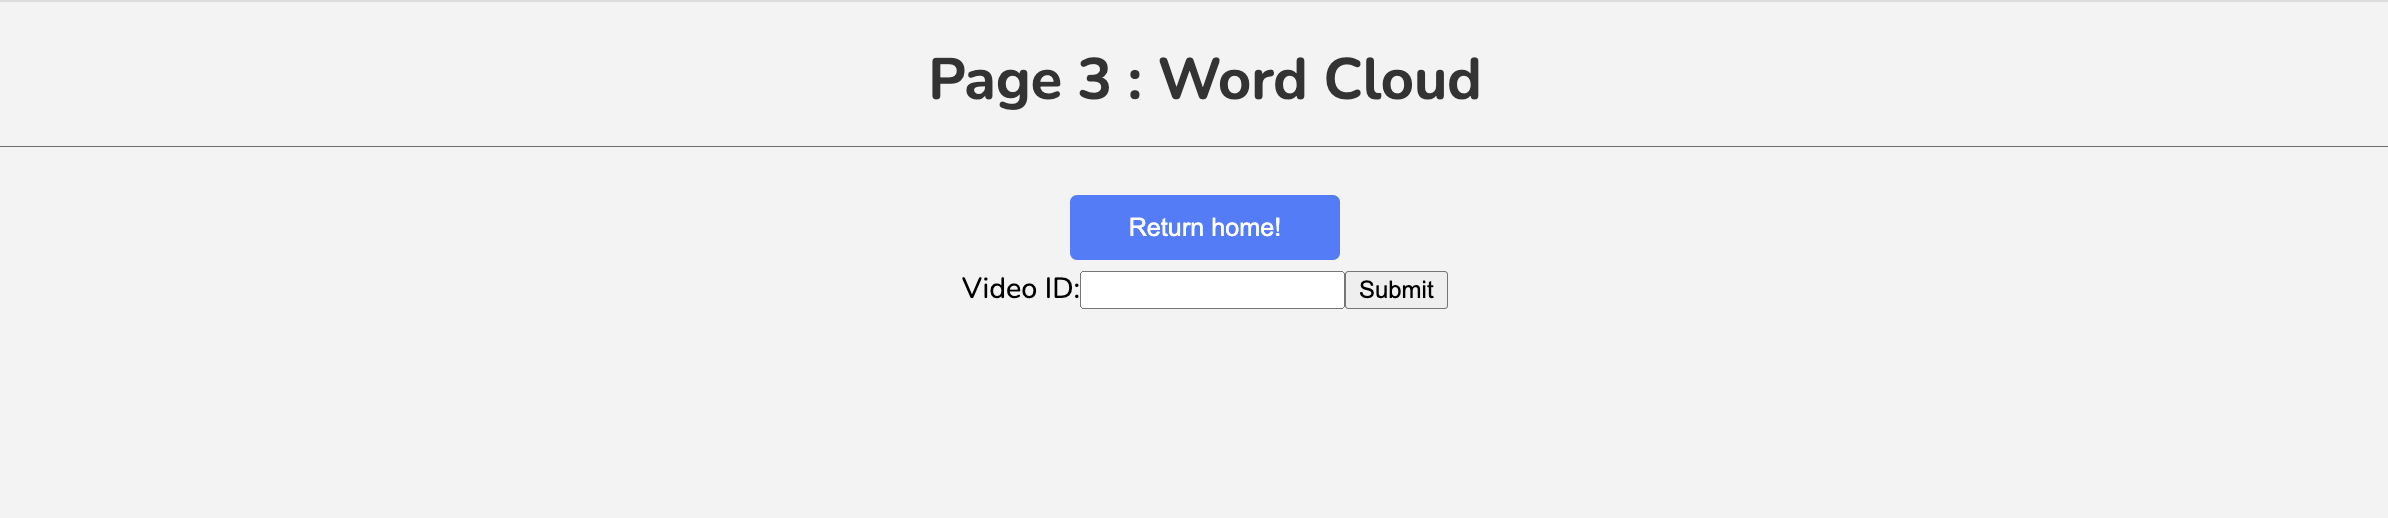
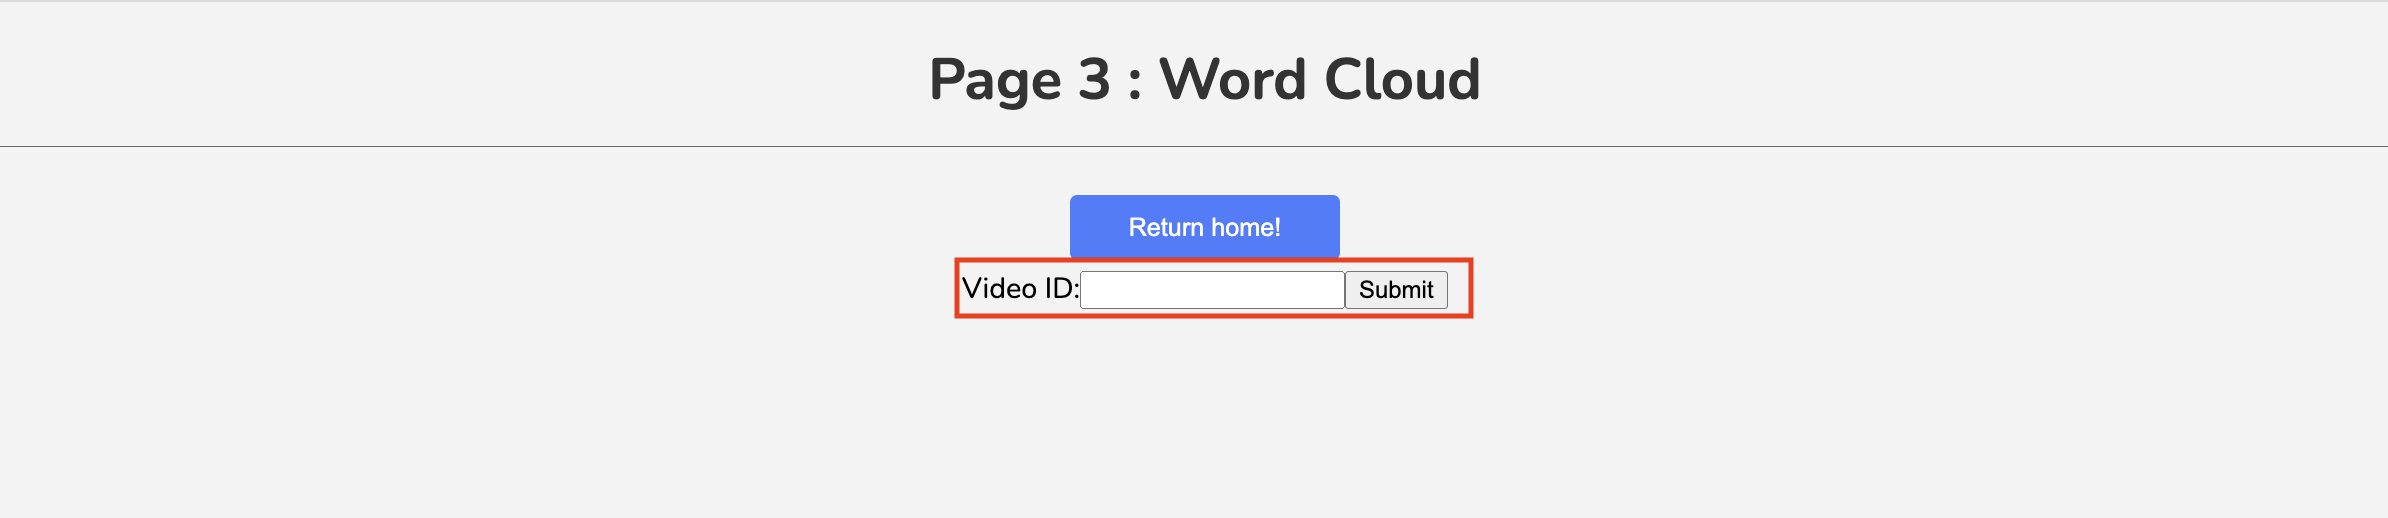
Updated README

Changed region(s): [[0.4028, 0.5869, 0.6198, 0.6178], [0.4028, 0.4942, 0.6198, 0.5251]]

diff --git a/README.md b/README.md
@@ -58,7 +58,17 @@ yarn dev
 
 ![Home Page](https://github.com/CS222SP22/course-project-lk/blob/main/nextjs-project/Home%20Screen.png)
 
-4.) There are 3 different visualizations that you can use. Views vs Likes Scatterplot, Word Cloud & Bubble Chart.
+4.) There are 3 different visualizations that you can use. Views vs Likes Scatterplot, Word Cloud & Bubble Chart. 
+
+For the Word Cloud visualization that visualizes common words and performs a sentiment analysis on a given video, the web application accepts a given video id for a video on YouTube and visualizes common words. Enter the Video ID in the input field (in red box):
+
+![Word Cloud](https://github.com/CS222SP22/course-project-lk/blob/main/nextjs-project/Word%20Cloud.png)
+
+You may obtain a video id by going to looking at a YouTube Video's URL. Below is an example of a video id format:
+
+```bash
+https://www.youtube.com/watch?v=<video id>
+```
 
 ## Group Members and Roles:
 
